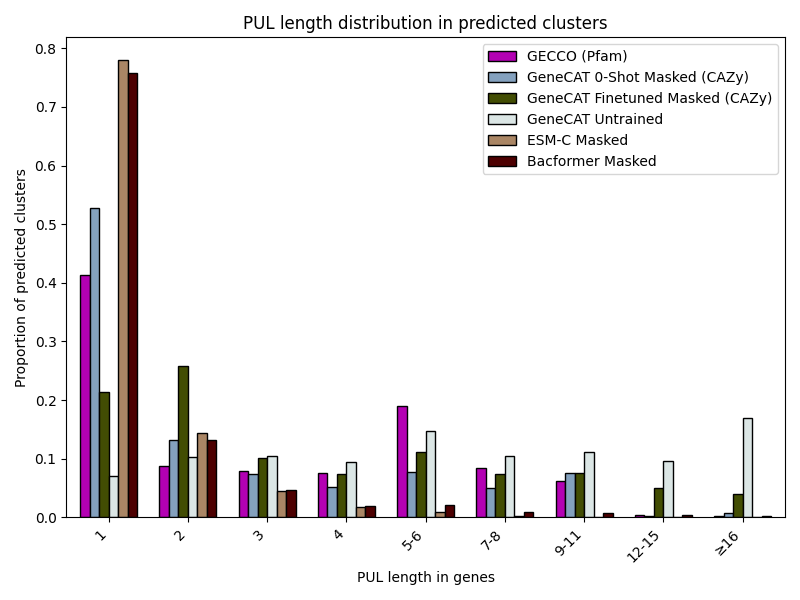
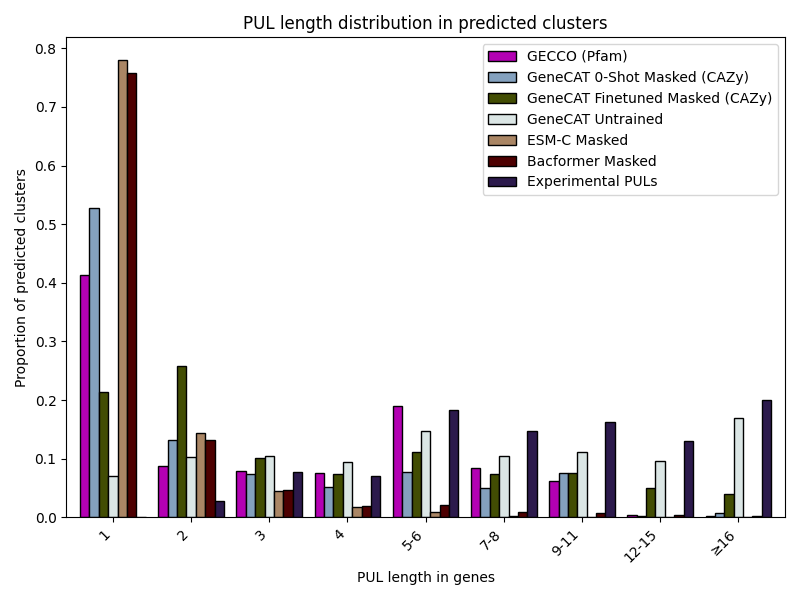
add plots of predictions

Changed region(s): [[0.0938, 0.09, 0.9688, 0.93], [0.5938, 0.27, 0.8438, 0.33], [0.7812, 0.9, 0.8125, 0.93]]

diff --git a/src/scripts/visualization/evaluate_predictions.py b/src/scripts/visualization/evaluate_predictions.py
@@ -7,7 +7,7 @@ from sklearn.metrics import classification_report, confusion_matrix, precision_r
 import seaborn as sns
 from matplotlib_venn import venn3
 from tqdm import tqdm
-from visualization_utilities import PredictionEvaluator, get_bins
+from visualization_utilities import PredictionEvaluator, get_bins, get_pul_lengths
 import altair_upset as au
 from viz_data import model_names, model_names_masked, model_colors, model_names_features, Cork_7, Bold_10, Bilbao_5, Buda_4
 
@@ -71,6 +71,7 @@ def barplot_features(all_models, model_names_dict=model_names_features):
         # save auprc scores
 #        auprc_exp.append(auprc_e)
 
+    # TODO: replace hardcoded values!
     models = ["GECCO", "GeneCAT 0-Shot", "GeneCAT Fine-tuned"]
     auprc_exp = [0.37, 0.36, 0.41, 0.44, 0.52, 0.55]
     features = ["Pfam features", "Pfam+CAZy features"]
@@ -126,6 +127,12 @@ def barplot_pul_length(all_models, model_names_dict=model_names):
         clusters_table_path = f"src/data/results/{model_name}/predicted_clusters.parquet"
         clusters_table = polars.read_parquet(clusters_table_path)
         pul_length_distributions[model_name] = clusters_table["gene_count"].to_list()
+    
+    all_models.append("experimental")
+    pul_length_distributions["experimental"] = get_pul_lengths(
+        polars.read_csv("src/data/data_collection/clusters_deduplicated_cblaster.tsv", separator="\t", infer_schema_length=700),
+        polars.read_parquet("src/data/genecat_output/genome.genes.parquet")
+    )["pul_length"].to_list()
 
     # plot distributions as barplot
     fig, ax = plt.subplots(figsize=(8, 6))
@@ -176,7 +183,7 @@ def compare_all_models(all_models, model_class, model_names_dict=model_names):
     fig, ax = plt.subplots(1, 2, figsize=(12, 6))
     fig_roc, ax_roc = plt.subplots(1, 2, figsize=(12, 6))
     fig_bac, ax_bac = plt.subplots(1, 2, figsize=(12, 6))
-    fig_bar, ax_bar = plt.subplots(1, 1, figsize=(8, 8))
+    fig_bar, ax_bar = plt.subplots(1, 1, figsize=(10, 8))
     colors = model_colors
 
     # add labels and legend
@@ -191,7 +198,7 @@ def compare_all_models(all_models, model_class, model_names_dict=model_names):
         ax_bac[j].set_ylabel("Precision")
 
     ax_bar.set_xlabel("Model")
-    ax_bar.set_ylabel("AUPRC (Area Under Pecision-Recall Curve)")
+    ax_bar.set_ylabel("AUPRC (Area Under Precision-Recall Curve)")
 
     # add titles and stuff
     ax[0].set_title("Models tested on experimental annotations")
@@ -265,9 +272,8 @@ def compare_all_models(all_models, model_class, model_names_dict=model_names):
     ax_bar.set_ylim(0, 0.8)
     
     ax_bar.set_xticks(x)
-    ax_bar.set_xticklabels(models, rotation=45, ha="right")
-    ax_bar.set_ylabel("AUPRC")
-    ax_bar.set_title("AUPRC per model")
+    ax_bar.set_xticklabels(models, rotation=40, ha="right")
+    ax_bar.set_title("Model performance evaluated on experimental and cryptic PULs")
     ax_bar.legend()
 
     fig.tight_layout()

diff --git a/src/scripts/visualization/cryptic_puls_plots.py b/src/scripts/visualization/cryptic_puls_plots.py
@@ -4,7 +4,7 @@ import matplotlib.pyplot as plt
 from matplotlib_venn import venn3, venn2
 import seaborn as sns
 from viz_data import Cork_7, Bilbao_5, Buda_4, Bold_10, model_colors
-from visualization_utilities import get_bins, join_gene_and_PUL_table
+from visualization_utilities import get_bins, join_gene_and_PUL_table, get_pul_lengths
 
 def get_protein_ids_in_clusters(cluster_table):
     return (
@@ -51,19 +51,6 @@ def plot_venn_diagram_cblaster(save="results/plots/venn_cblaster.png"):
     plt.tight_layout()
     plt.savefig(save, dpi=300)
     plt.close()
-
-
-def get_pul_lengths(puls_table, genes):
-    # merge with gene table to get gene counts per PUL
-    return (
-        join_gene_and_PUL_table(genes, puls_table)
-        # create unique cluster id by concatenating cluster_id and sequence_id, to avoid merging clusters from different sequences in the next step
-        .with_columns(polars.concat_str([polars.col("cluster_id"), polars.col("sequence_id")]).alias("cluster_id_unique"))
-        .group_by("cluster_id_unique").agg(
-            polars.col("protein_id").n_unique().alias("pul_length"),
-        )
-        .select(["cluster_id_unique", "pul_length"])
-    )
 
 
 def plot_length_distributions(genes, experimental_puls, cblaster_results_liberal, cblaster_results_strict, pulpy):

diff --git a/src/scripts/visualization/plot_predictions_in_genomes.py b/src/scripts/visualization/plot_predictions_in_genomes.py
@@ -151,7 +151,7 @@ def visualize_genes(model_names, sequence_id, start=0, end=10000, model_class="p
     if len(experimental_clusters) > 0:
         print(f"Found experimental PULs in this region, not plotting")
         return
-    if len(cryptic) > 4: # arbitrary threshold, can be adjusted
+    if len(cryptic) > 1: # arbitrary threshold, can be adjusted
         print(f"Found many cryptic PUL genes in this region, not plotting")
         return
 
@@ -228,7 +228,7 @@ def visualize_genes(model_names, sequence_id, start=0, end=10000, model_class="p
 
 
 def compare_all_models(all_models, model_class):
-    high_confidence_predictions = polars.read_csv(f"src/data/analysis/high_confidence_predictions_genecat_finetuned_cazy_masked.tsv", separator="\t")
+    high_confidence_predictions = polars.read_csv(f"src/data/analysis/high_confidence_predictions_gecco_pfam.tsv", separator="\t")
     for cluster in high_confidence_predictions.iter_rows(named=True):
         visualize_genes(
             model_names=all_models,

diff --git a/src/scripts/visualization/visualization_utilities.py b/src/scripts/visualization/visualization_utilities.py
@@ -9,6 +9,22 @@ from matplotlib_venn import venn3
 from tqdm import tqdm
 from viz_data import model_names
 
+
+def get_pul_lengths(puls_table, genes):
+    # merge with gene table to get gene counts per PUL
+    return (
+        join_gene_and_PUL_table(genes, puls_table)
+        .filter(polars.col("is_PUL") == True)
+        # create unique cluster id by concatenating cluster_id and sequence_id, to avoid merging clusters from different sequences in the next step
+        .with_columns(polars.concat_str([polars.col("cluster_id"), polars.col("sequence_id")]).alias("cluster_id_unique"))
+        .group_by("cluster_id_unique").agg(
+            polars.col("protein_id").n_unique().alias("pul_length"),
+        )
+        .select(["cluster_id_unique", "pul_length"])
+    )
+
+
+
 def get_bins(bin_num, start=0, stop=50):
     start = 0
     bins = np.unique(

diff --git a/src/scripts/visualization/viz_data.py b/src/scripts/visualization/viz_data.py
@@ -17,7 +17,8 @@ model_names = {
     "bacformer": "Bacformer",
     "esmc_masked": "ESM-C Masked",
     "bacformer_masked": "Bacformer Masked",
-    "genecat_untrained": "GeneCAT Untrained"
+    "genecat_untrained": "GeneCAT Untrained",
+    "experimental": "Experimental PULs",
 }
 
 model_names_masked = {
@@ -78,4 +79,5 @@ model_colors = {
     "esmc_masked": Bilbao_5[2],
     "bacformer": Bilbao_5[3],
     "bacformer_masked": Bilbao_5[4],
+    "experimental": Cork_7[0],
 }

diff --git a/src/scripts/analysis/find_putative_puls.py b/src/scripts/analysis/find_putative_puls.py
@@ -2,7 +2,7 @@ import polars
 import os
 import argparse
 
-model_name = "genecat_finetuned_cazy_masked"
+model_name = "gecco_pfam"
 clusters_table_path = "src/data/data_collection/clusters_deduplicated_cblaster.tsv"
 cryptic_puls_path = "src/data/data_collection/cryptic_puls_genes.tsv"
 #labeled_results_path = f"src/data/results/{model_name}/labeled_results_test"
